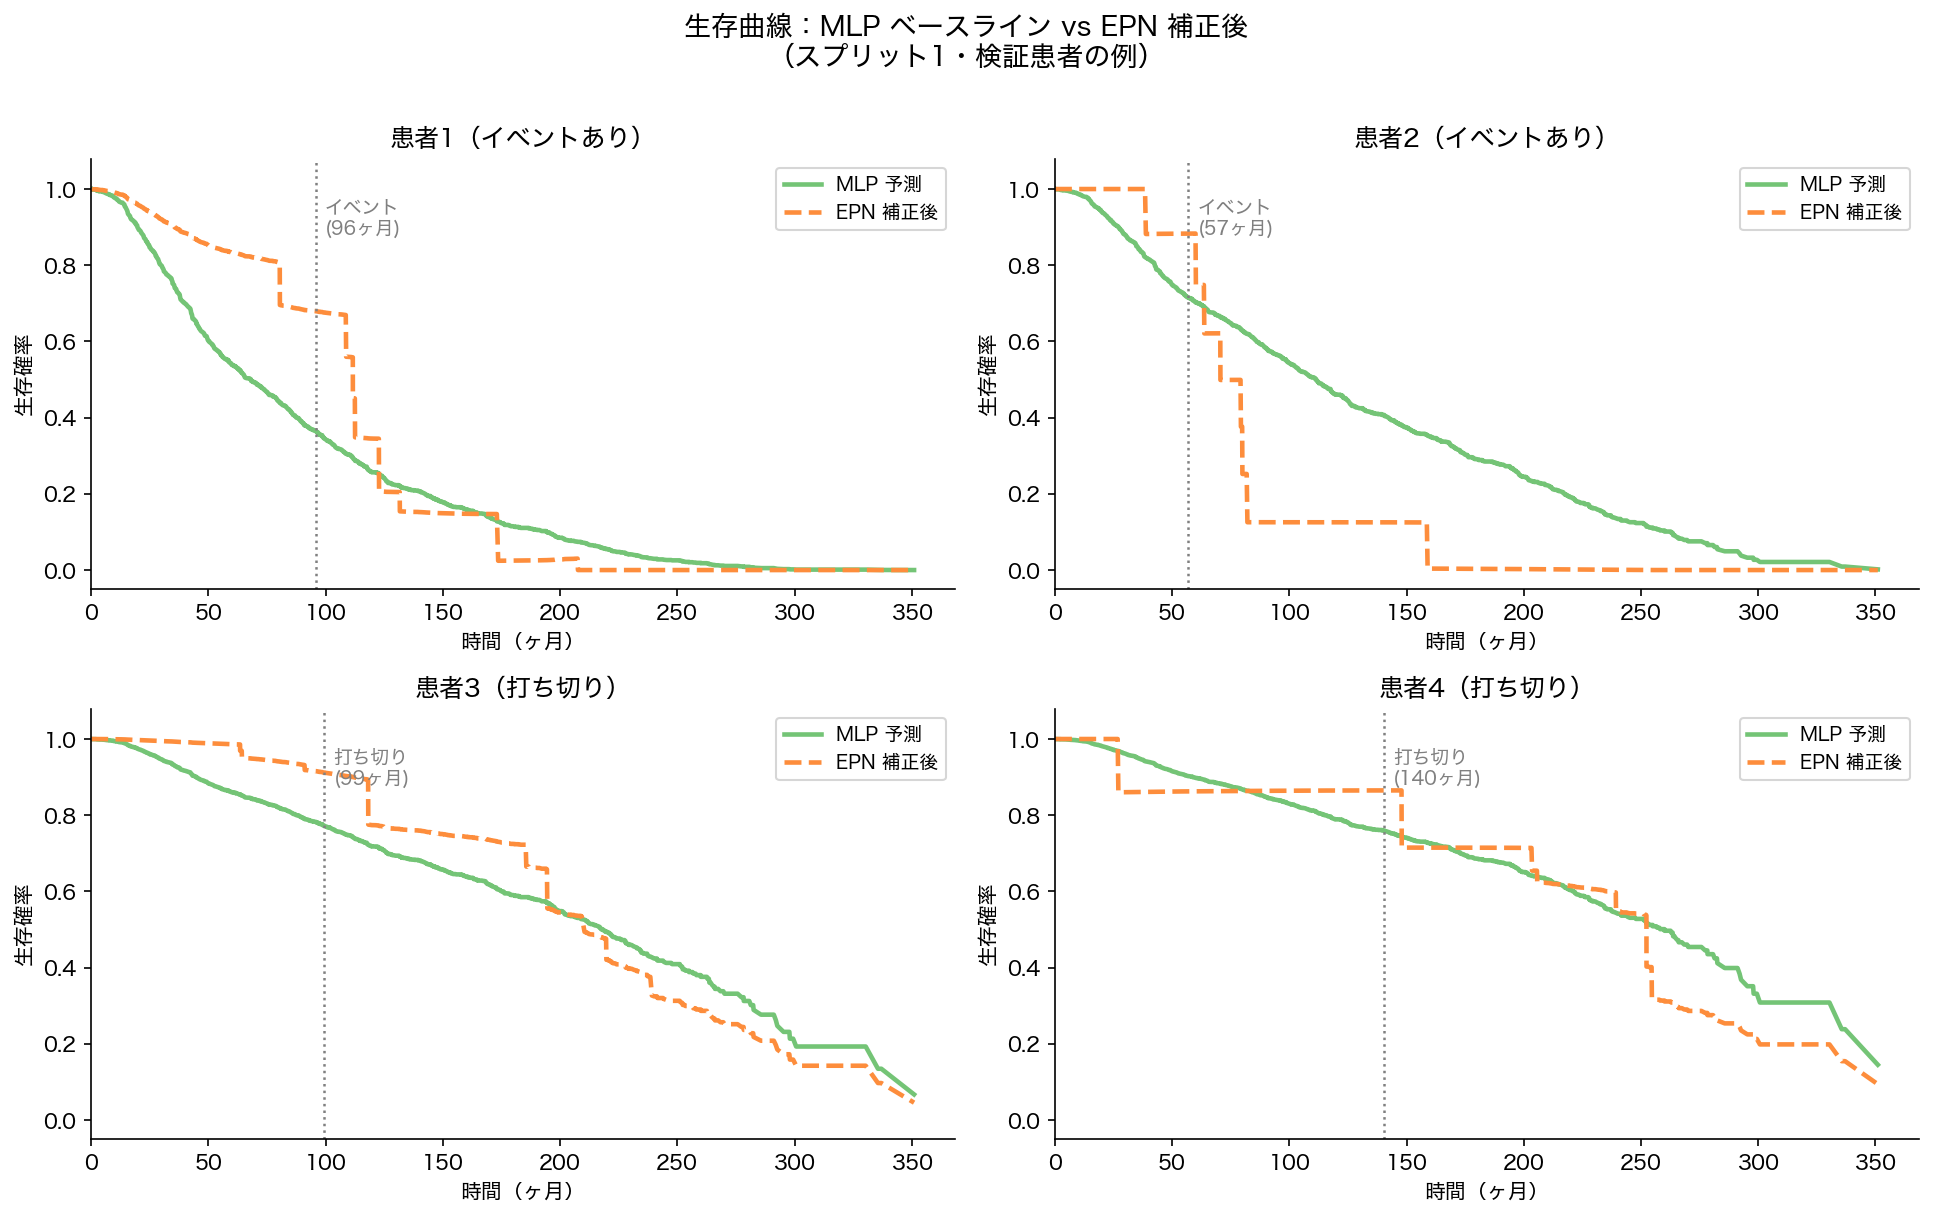
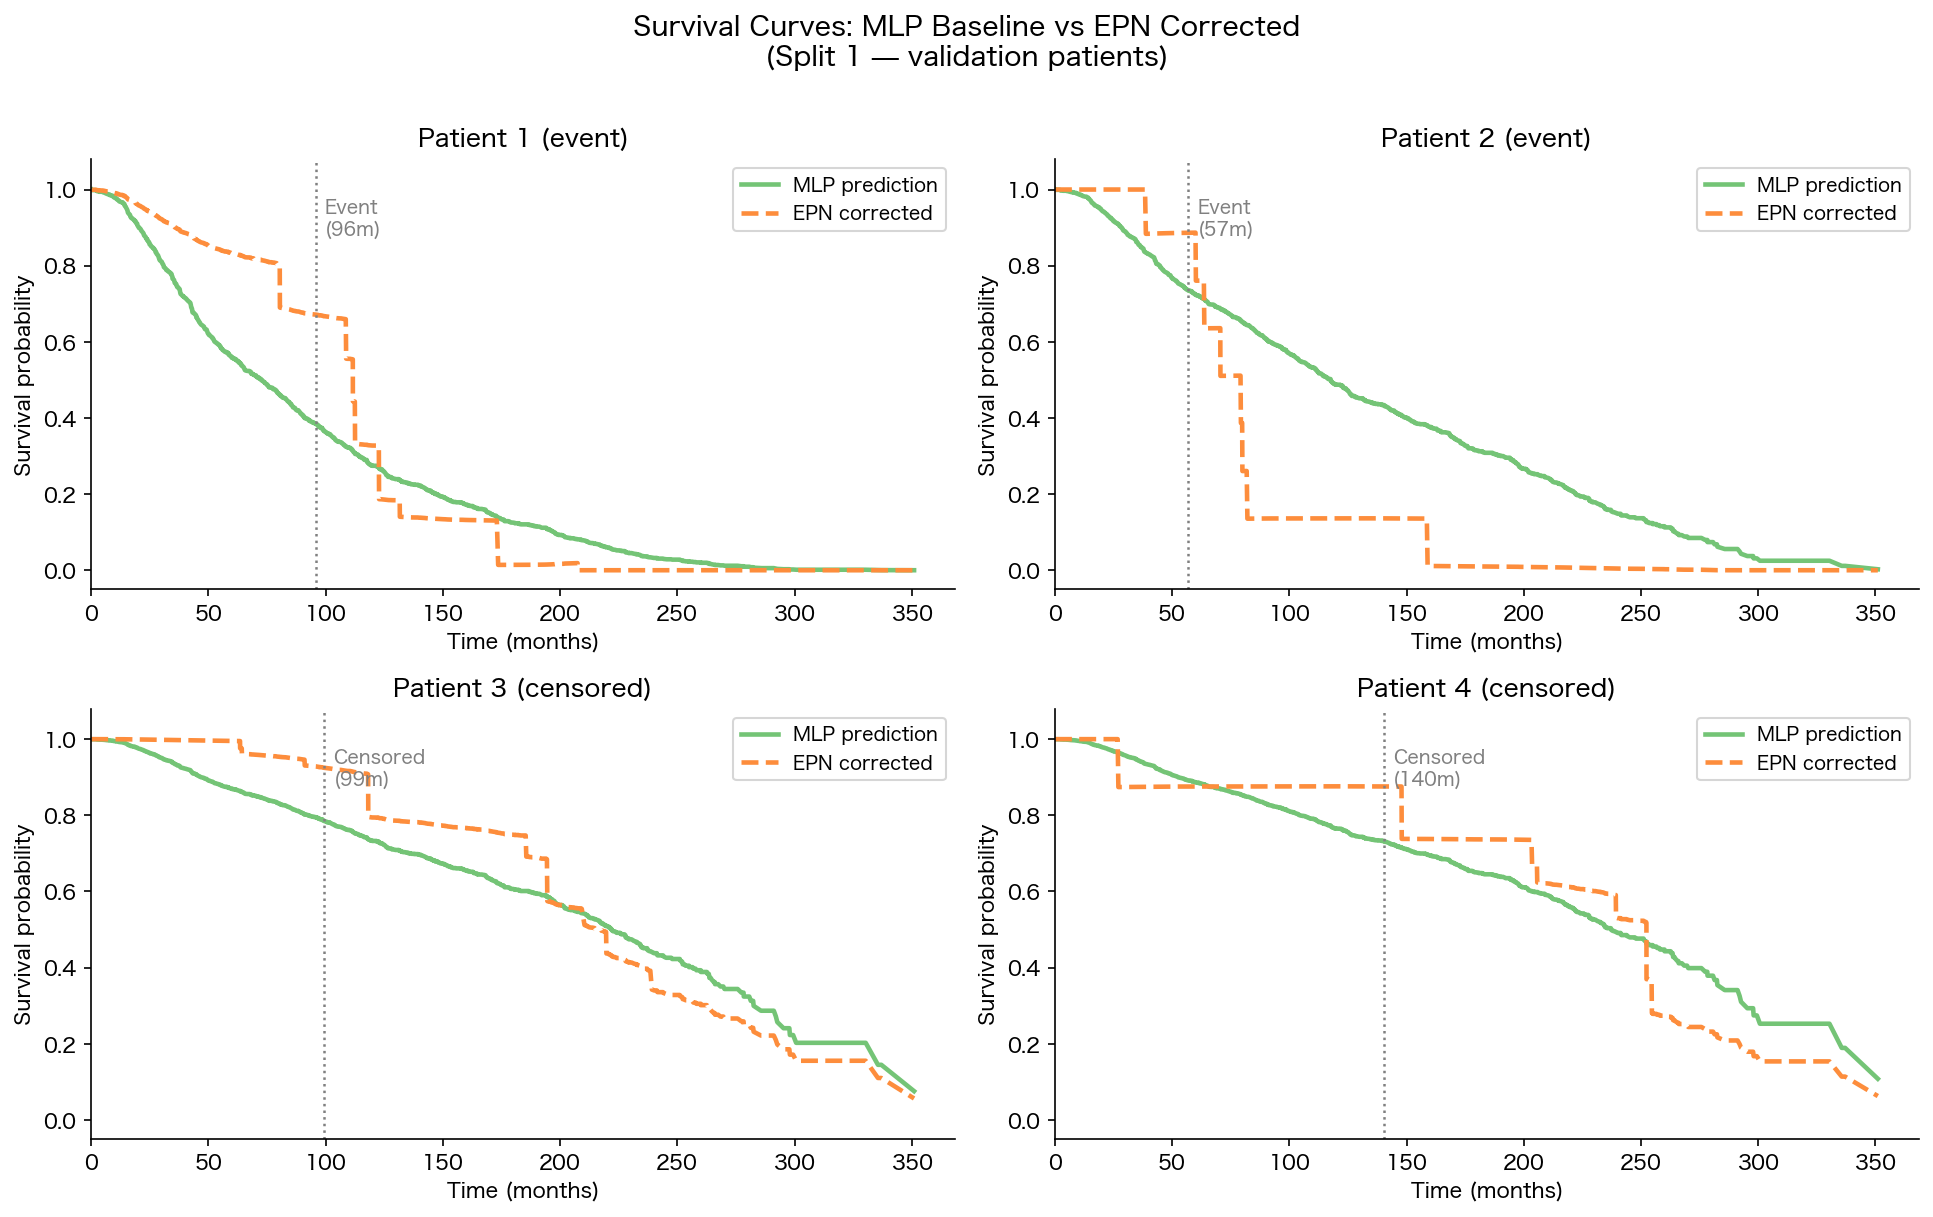
fix: switch plot labels to English

diff --git a/Vanlentin's pipeline/src/survival_analysis/experiments/visualize.py b/Vanlentin's pipeline/src/survival_analysis/experiments/visualize.py
@@ -81,20 +81,20 @@ def plot_patient_graph(base_dm):
     # 患者ノードを描画（色分け: イベントあり=オレンジ、打ち切り=水色）
     ax.scatter(
         coords[events == 0, 0], coords[events == 0, 1],
-        c="#3182bd", s=18, alpha=0.7, label=f"打ち切り ({(events==0).sum()}人)",
+        c="#3182bd", s=18, alpha=0.7, label=f"Censored ({(events==0).sum()})",
         zorder=2, edgecolors="white", linewidths=0.3,
     )
     ax.scatter(
         coords[events == 1, 0], coords[events == 1, 1],
-        c="#e6550d", s=18, alpha=0.7, label=f"イベントあり ({(events==1).sum()}人)",
+        c="#e6550d", s=18, alpha=0.7, label=f"Event ({(events==1).sum()})",
         zorder=2, edgecolors="white", linewidths=0.3,
     )
 
     ax.set_xlabel(f"PC1 ({var_ratio[0]*100:.1f}%)", fontsize=12)
     ax.set_ylabel(f"PC2 ({var_ratio[1]*100:.1f}%)", fontsize=12)
     ax.set_title(
-        f"患者類似グラフ（k-NN, k={GRAPH_K}, コサイン類似度）\n"
-        f"PCA 2次元投影 — 訓練患者 {len(features)} 人",
+        f"Patient Similarity Graph (k-NN, k={GRAPH_K}, cosine similarity)\n"
+        f"PCA 2D projection — {len(features)} training patients",
         fontsize=13,
     )
     ax.legend(fontsize=11, loc="upper right")
@@ -142,8 +142,8 @@ def plot_survival_curves(base_dm, epn_dm, epn_module):
     censor_idx = np.where(val_y[:, 1] == 0)[0][:2]
     chosen = np.concatenate([event_idx, censor_idx])
     titles = [
-        "患者1（イベントあり）", "患者2（イベントあり）",
-        "患者3（打ち切り）",     "患者4（打ち切り）",
+        "Patient 1 (event)", "Patient 2 (event)",
+        "Patient 3 (censored)", "Patient 4 (censored)",
     ]
 
     fig, axes = plt.subplots(2, 2, figsize=(13, 8))
@@ -155,24 +155,24 @@ def plot_survival_curves(base_dm, epn_dm, epn_module):
         is_event   = int(val_y[i, 1])
 
         ax.plot(mlp_times, mlp_surv_df.iloc[:, pat_global].values,
-                color="#74c476", linewidth=2.2, label="MLP 予測")
+                color="#74c476", linewidth=2.2, label="MLP prediction")
         ax.plot(timepoints, epn_corr[i],
-                color="#fd8d3c", linewidth=2.2, linestyle="--", label="EPN 補正後")
+                color="#fd8d3c", linewidth=2.2, linestyle="--", label="EPN corrected")
         ax.axvline(t_event, color="gray", linestyle=":", linewidth=1.2)
         ax.text(t_event + 4, 0.88,
-                f"{'イベント' if is_event else '打ち切り'}\n({t_event:.0f}ヶ月)",
+                f"{'Event' if is_event else 'Censored'}\n({t_event:.0f}m)",
                 fontsize=9, color="gray")
         ax.set_xlim(0, max(mlp_times[-1], timepoints[-1]) * 1.05)
         ax.set_ylim(-0.05, 1.08)
-        ax.set_xlabel("時間（ヶ月）", fontsize=10)
-        ax.set_ylabel("生存確率", fontsize=10)
+        ax.set_xlabel("Time (months)", fontsize=10)
+        ax.set_ylabel("Survival probability", fontsize=10)
         ax.set_title(title, fontsize=12)
         ax.legend(fontsize=9)
         ax.spines["top"].set_visible(False)
         ax.spines["right"].set_visible(False)
 
     fig.suptitle(
-        "生存曲線：MLP ベースライン vs EPN 補正後\n（スプリット1・検証患者の例）",
+        "Survival Curves: MLP Baseline vs EPN Corrected\n(Split 1 — validation patients)",
         fontsize=13, y=1.01,
     )
     plt.tight_layout()
